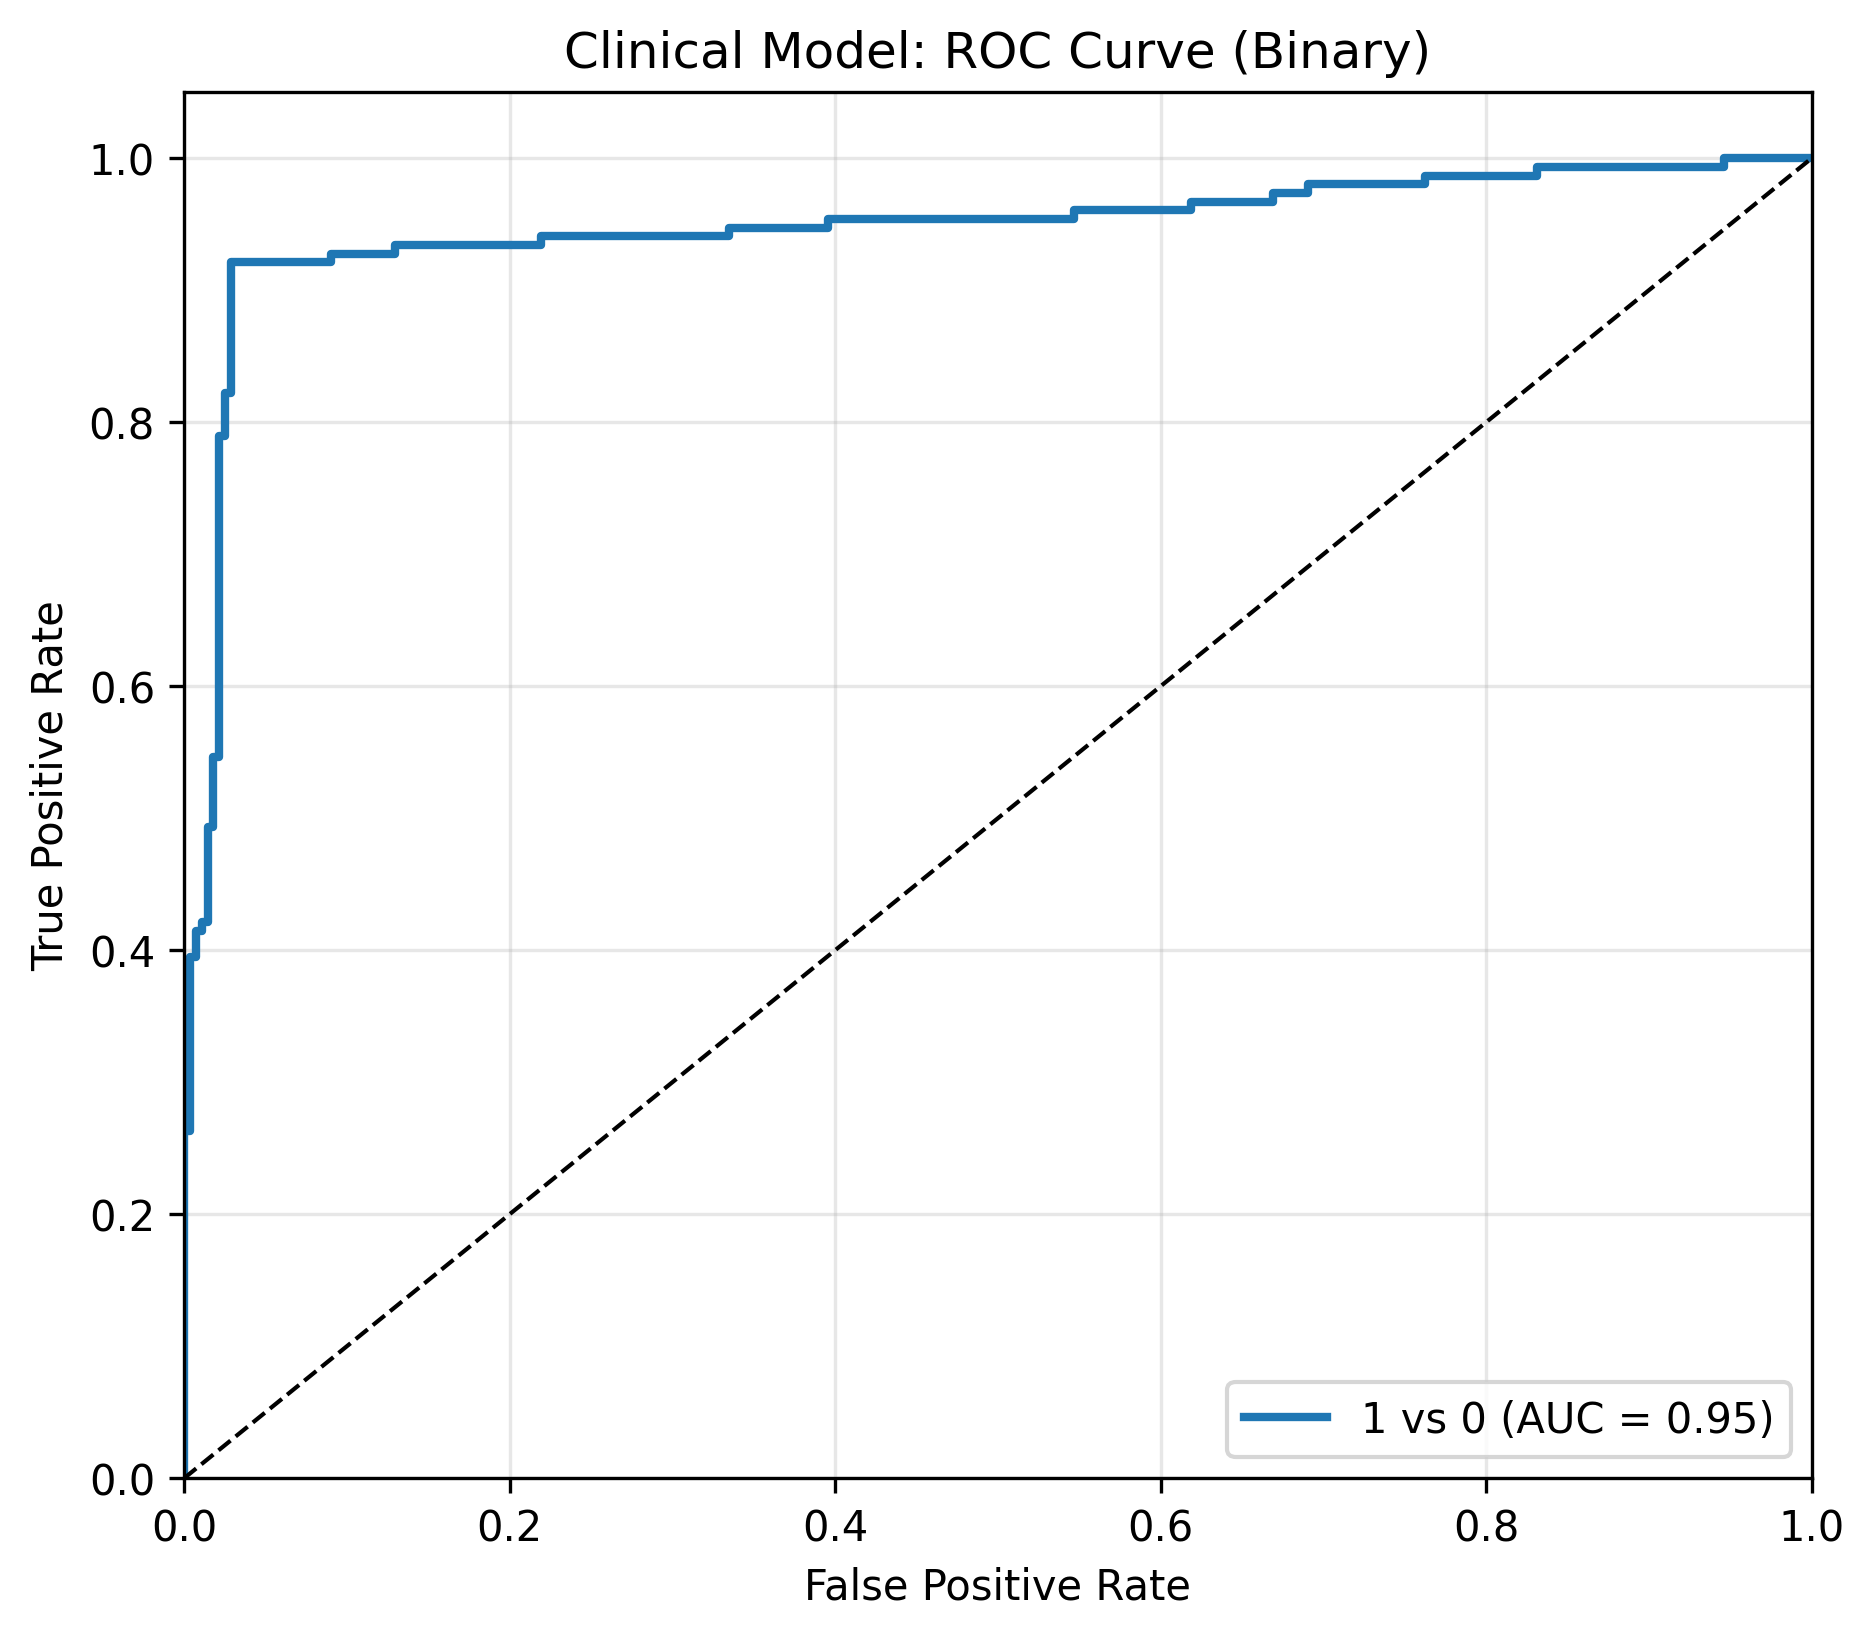
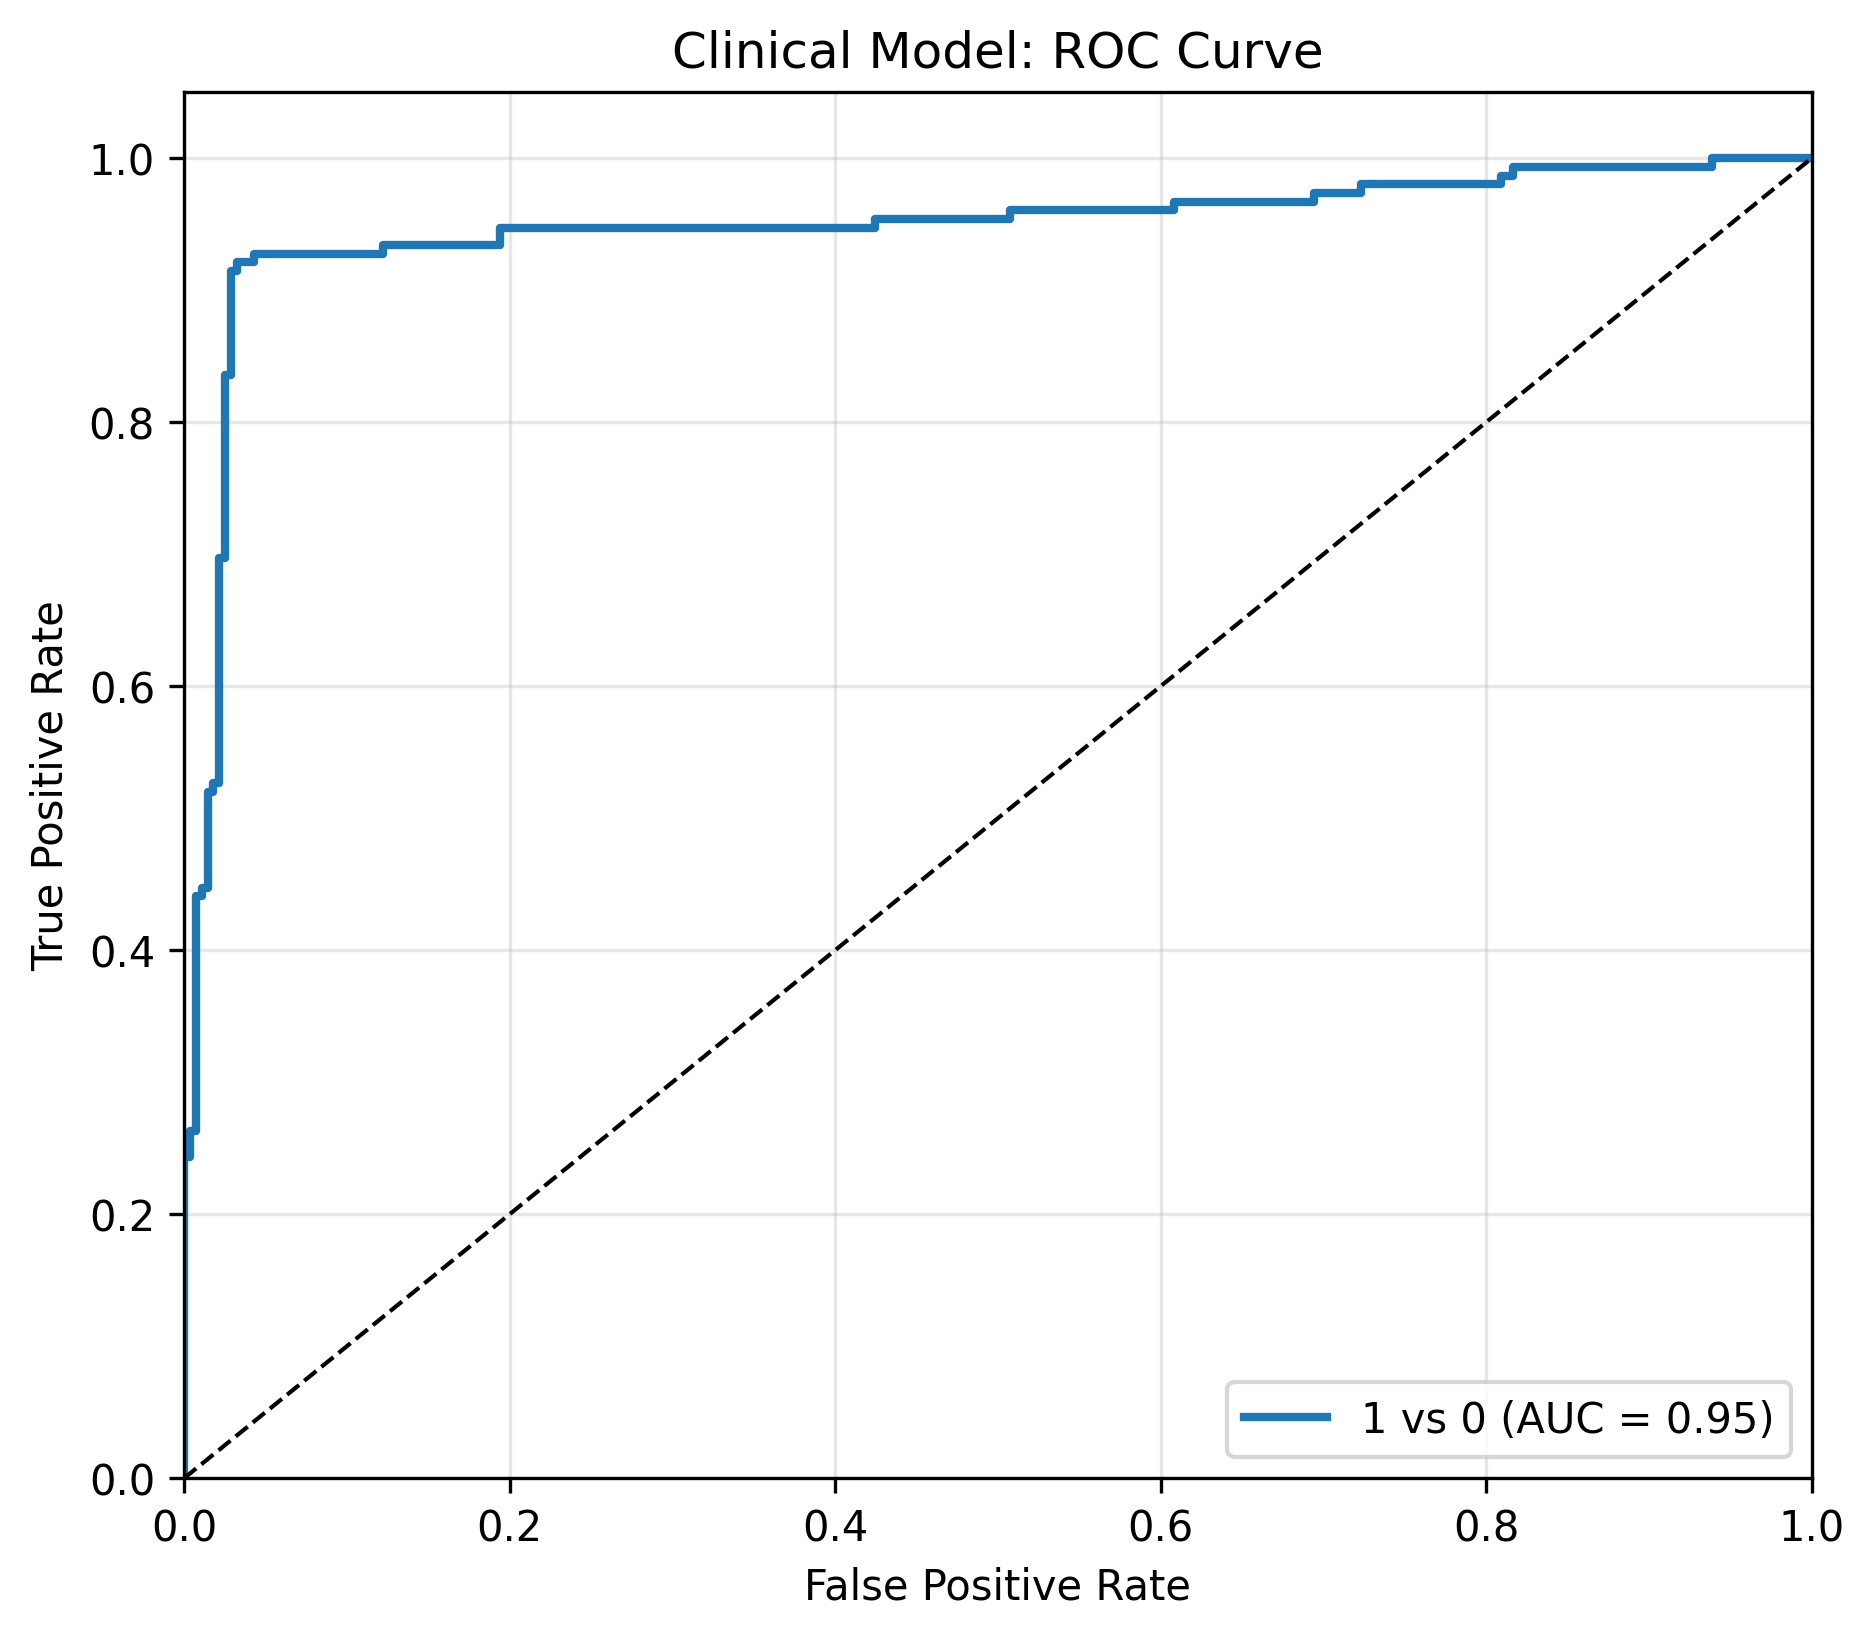
plots re-generated

diff --git a/backend/plots_codes/auc_roc.py b/backend/plots_codes/auc_roc.py
@@ -4,22 +4,21 @@ from sklearn.preprocessing import label_binarize
 from sklearn.metrics import roc_curve, auc
 import joblib
 
-# -------------------------------
 # Load model and scaler
-# -------------------------------
+
 model = joblib.load("models/clinical_model.pkl")
 scaler = joblib.load("models/clinical_scaler.pkl")
 
-# -------------------------------
-# Load test data
-# -------------------------------
+# Load data
 csv_path = r"E:\MAJOR PROJECT\Clinical features ML workflow\Processed_Alzheimers_data.csv"
 df = pd.read_csv(csv_path)
 
 FEATURES = [
-    "FunctionalAssessment", "ADL", "MMSE", "MemoryComplaints",
-    "BehavioralProblems", "SleepQuality", "BMI",
-    "CholesterolHDL", "CholesterolLDL"
+    "MMSE", "FunctionalAssessment", "ADL", 
+    "MemoryComplaints", "BehavioralProblems",
+    "SleepQuality", "Age",
+    "CholesterolHDL", "CholesterolLDL", 
+    "FamilyHistoryAlzheimers"
 ]
 X = df[FEATURES]
 y = df["Diagnosis"]
@@ -31,15 +30,12 @@ X_train, X_test, y_train, y_test = train_test_split(
 
 X_test_scaled = scaler.transform(X_test)
 
-# -------------------------------
-# Binary ROC/AUC
-# -------------------------------
 # Binarize labels
 classes_list = sorted(y.unique())
-y_test_bin = label_binarize(y_test, classes=classes_list)  # shape = (n_samples,1)
+y_test_bin = label_binarize(y_test, classes=classes_list)
 
 # Predicted probabilities (probability of positive class)
-y_score = model.predict_proba(X_test_scaled)[:,1]  # only positive class
+y_score = model.predict_proba(X_test_scaled)[:,1]
 
 fpr, tpr, _ = roc_curve(y_test_bin[:,0], y_score)
 roc_auc = auc(fpr, tpr)
@@ -52,10 +48,10 @@ plt.xlim([0,1])
 plt.ylim([0,1.05])
 plt.xlabel("False Positive Rate")
 plt.ylabel("True Positive Rate")
-plt.title("Clinical Model: ROC Curve (Binary)")
+plt.title("Clinical Model: ROC Curve")
 plt.legend(loc="lower right")
 plt.grid(alpha=0.3)
 
 # Save figure
-plt.savefig("metrics/clinical_roc_auc.png", dpi=300, bbox_inches="tight")
+plt.savefig("metrics/plots/clinical_roc_auc.png", dpi=300, bbox_inches="tight")
 plt.show()

diff --git a/backend/plots_codes/dl_plots.py b/backend/plots_codes/dl_plots.py
@@ -5,38 +5,17 @@ import os
 from scipy.stats import entropy
 
 # Setup
-SAVE_DIR = "metrics"
+SAVE_DIR = "metrics/plots"
 os.makedirs(SAVE_DIR, exist_ok=True)
 CLASSES = ['Mild', 'Moderate', 'Non-Demented', 'Very Mild']
 
 # Load only probabilities
 probs = np.load(r'E:\MAJOR PROJECT\Multimodal Alzheimers Detection\backend\assets\effnet_test_probabilities.npy')
 
-# --- PLOT 1: Max Confidence Distribution ---
-plt.figure(figsize=(10, 6))
-max_probs = np.max(probs, axis=1)
-sns.histplot(max_probs, bins=25, kde=True, color='skyblue')
-plt.title('Distribution of Model Prediction Confidence')
-plt.xlabel('Confidence Score (0.0 to 1.0)')
-plt.ylabel('Number of Samples')
-plt.savefig(os.path.join(SAVE_DIR, "model_confidence_dist.png"))
-plt.close()
-
-# --- PLOT 2: Prediction Entropy (Uncertainty) ---
-plt.figure(figsize=(10, 6))
-uncertainty = entropy(probs.T)
-sns.kdeplot(uncertainty, fill=True, color='orange')
-plt.title('Model Uncertainty (Entropy) Distribution')
-plt.xlabel('Entropy Score (Higher = More Uncertain)')
-plt.savefig(os.path.join(SAVE_DIR, "model_uncertainty_entropy.png"))
-plt.close()
-
-# --- PLOT 3: Class Probability Correlations ---
+# --- Class Probability Correlations ---
 plt.figure(figsize=(8, 6))
 corr = np.corrcoef(probs.T)
 sns.heatmap(corr, annot=True, xticklabels=CLASSES, yticklabels=CLASSES, cmap='coolwarm')
 plt.title('Correlation Between Disease Stage Probabilities')
 plt.savefig(os.path.join(SAVE_DIR, "class_correlation_heatmap.png"))
 plt.close()
-
-print("Confidence and Uncertainty plots saved to metrics/ folder.")

diff --git a/backend/plots_codes/ml_err_dist.py b/backend/plots_codes/ml_err_dist.py
@@ -41,7 +41,7 @@ plt.tight_layout()
 
 # Ensure metrics directory exists before saving
 os.makedirs("metrics", exist_ok=True)
-plt.savefig("metrics/ml_error_distribution.png")
+plt.savefig("metrics/plots/ml_error_distribution.png")
 plt.show()
 
-print(f"✅ Error distribution plot saved with FP: {FP} and FN: {FN}")
+print(f"Error distribution plot saved with FP: {FP} and FN: {FN}")

diff --git a/backend/plots_codes/mri_err_dist.py b/backend/plots_codes/mri_err_dist.py
@@ -15,5 +15,5 @@ plt.xlabel("Alzheimer's Stage")
 plt.ylabel("Number of Misclassifications")
 plt.title("Error Distribution Across Alzheimer’s Classes (DL Model)")
 plt.tight_layout()
-plt.savefig("metrics/mri_error_distribuion.png")
+plt.savefig("metrics/plots/mri_error_distribuion.png")
 plt.show()

diff --git a/backend/plots_codes/plot_mri_cfm.py b/backend/plots_codes/plot_mri_cfm.py
@@ -18,6 +18,6 @@ plt.ylabel("True Label")
 plt.title("Confusion Matrix")
 
 # Save to metrics folder
-plt.savefig("metrics/effnet_confusionmatrix.png", dpi=300, bbox_inches="tight")
+plt.savefig("metrics/plots/effnet_confusionmatrix.png", dpi=300, bbox_inches="tight")
 
 plt.show()

diff --git a/backend/plots_codes/calc_per_class_acc.py b/backend/plots_codes/calc_per_class_acc.py
@@ -21,6 +21,6 @@ plt.title("Per-Class Accuracy (EfficientNet Model)")
 
 plt.ylim(0,1)
 
-plt.savefig("metrics/effnet_per_class_accuracy.png", dpi=300, bbox_inches="tight")
+plt.savefig("metrics/plots/effnet_per_class_accuracy.png", dpi=300, bbox_inches="tight")
 
 plt.show()

diff --git a/backend/plots_codes/class_metrics_ml.py b/backend/plots_codes/class_metrics_ml.py
@@ -44,5 +44,5 @@ plt.ylim(0,1)
 plt.xticks(rotation=0)
 plt.tight_layout()
 
-plt.savefig("metrics/ml_class_metrics.png", dpi=300)
+plt.savefig("metrics/plots/ml_class_metrics.png", dpi=300)
 plt.show()

diff --git a/backend/plots_codes/class_metrics_mri.py b/backend/plots_codes/class_metrics_mri.py
@@ -44,5 +44,5 @@ plt.ylim(0,1)
 plt.xticks(rotation=0)
 plt.tight_layout()
 
-plt.savefig("metrics/class_metrics.png", dpi=300)
+plt.savefig("metrics/plots/mri_class_metrics.png", dpi=300)
 plt.show()
